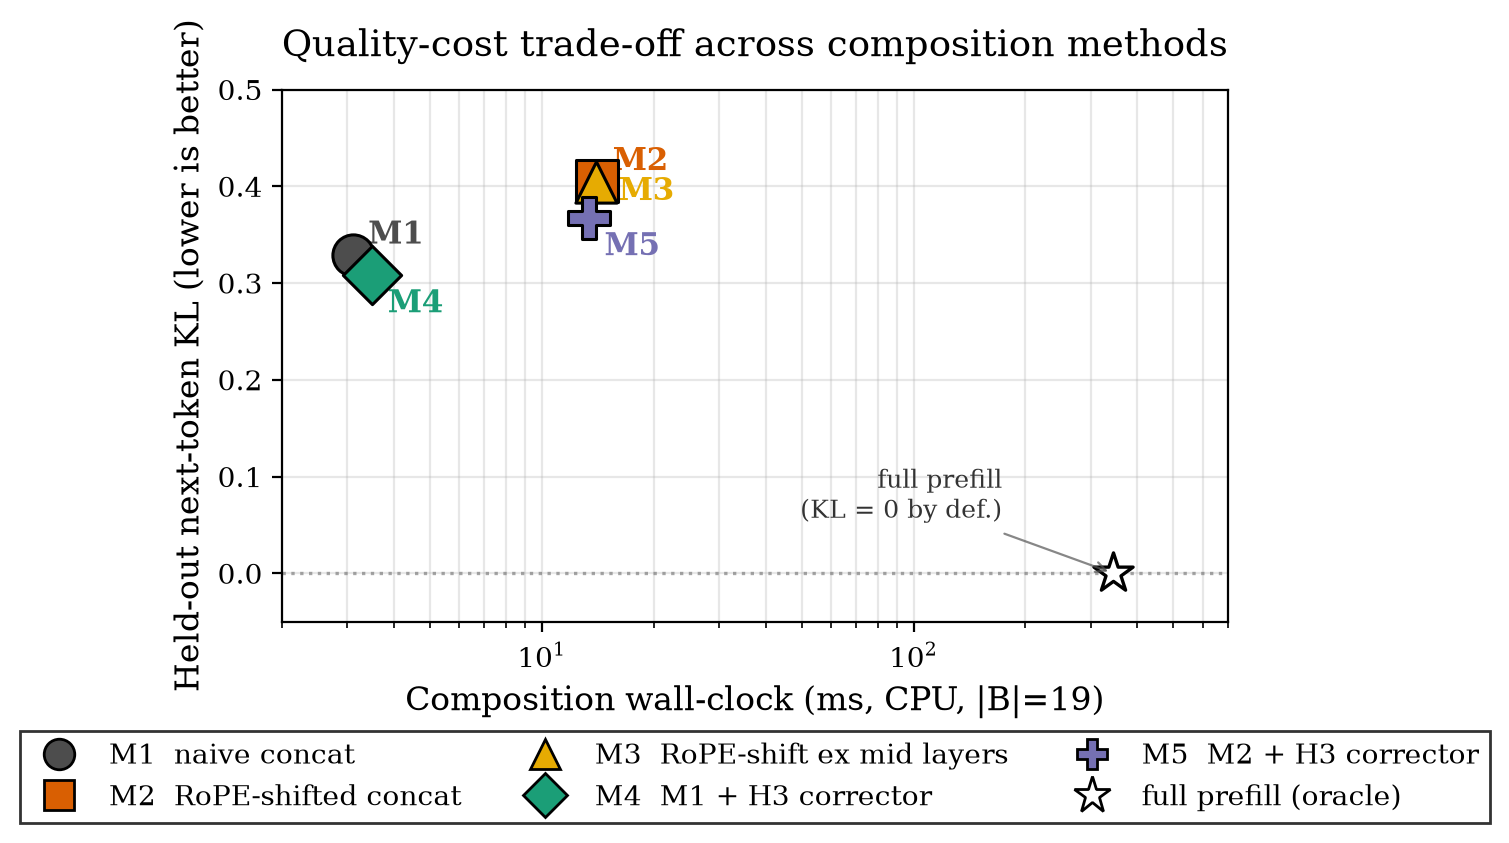
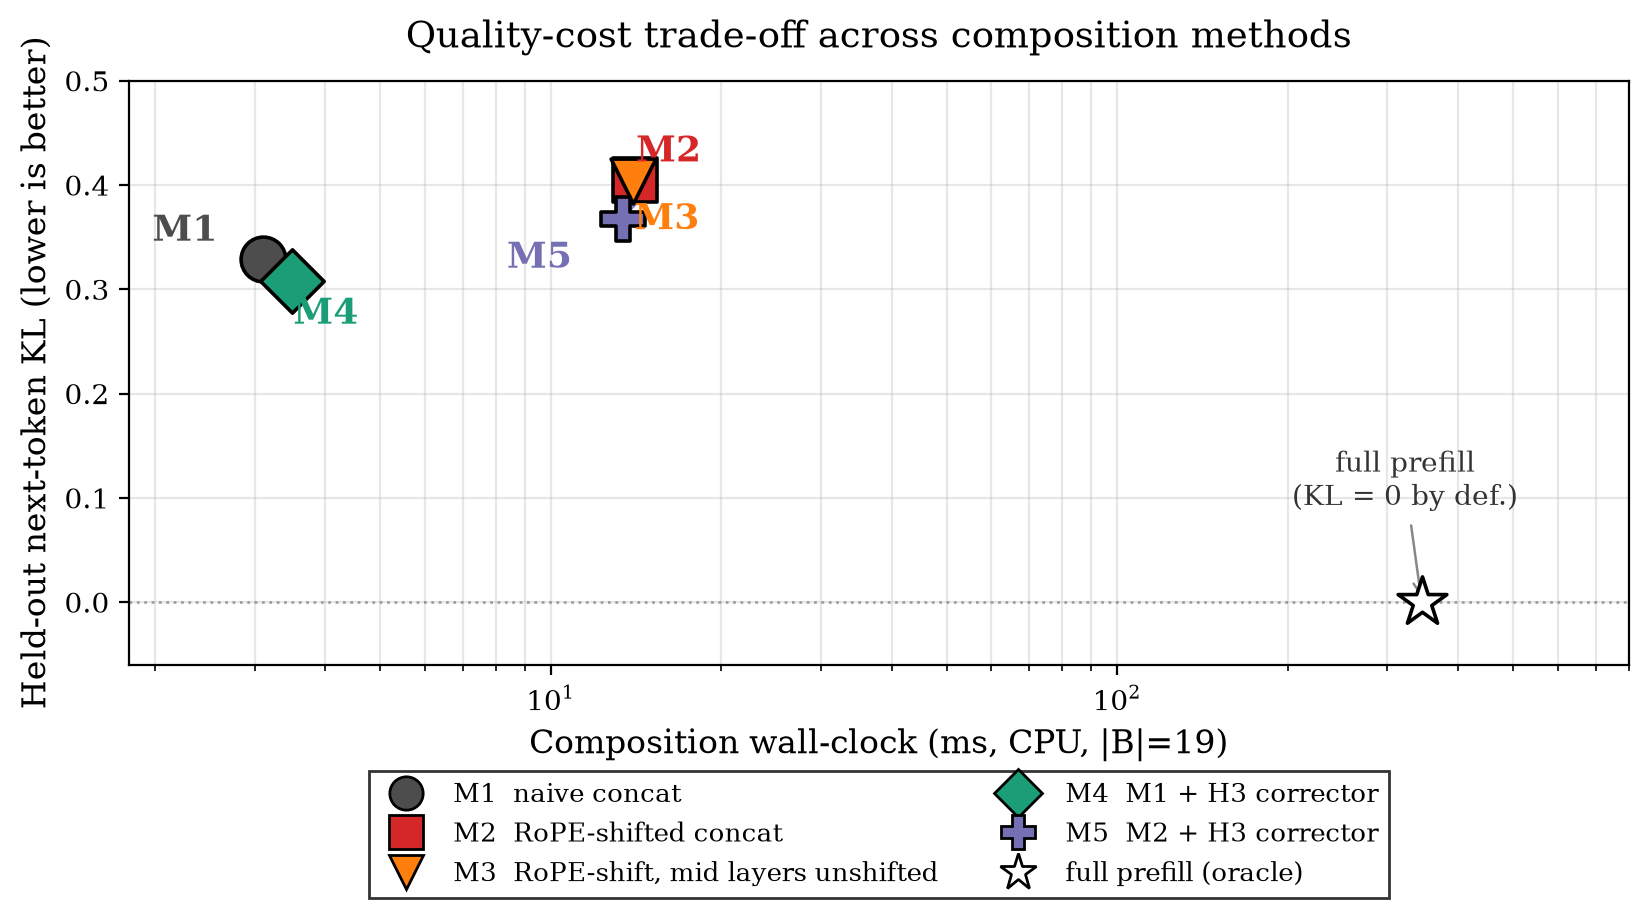
Pareto v3: distinct colors, no label overlap, 2-column legend
- All 5 methods now have visually distinct colors: gray (M1), red (M2),
  orange (M3), green (M4), purple (M5).
- M3 marker changed from up-triangle to down-triangle so it does not
  read as the same shape family as anything else.
- Removed the "+H3" text labels that were overlapping the M4/M5 bold
  labels. The green and purple arrows already communicate the
  improvement direction, and the legend and figure caption identify
  which methods include H3.
- Wider figure (8.5x5.0), 2-column legend fully inside the frame with
  no truncation.
- Full-prefill oracle drawn as a white star with an arrow-labelled
  "KL = 0 by def." annotation.

diff --git a/paper/make_pareto.py b/paper/make_pareto.py
@@ -2,83 +2,83 @@
 
 import matplotlib.pyplot as plt
 import matplotlib
+from matplotlib.lines import Line2D
 
 matplotlib.rcParams.update({
     "font.size": 11,
     "font.family": "serif",
     "axes.labelsize": 12,
-    "legend.fontsize": 10,
+    "legend.fontsize": 9.5,
     "xtick.labelsize": 10,
     "ytick.labelsize": 10,
 })
 
-# (method label, wall-clock ms, held-out aggregate KL, marker, color, label_offset)
-# label_offset: (dx_log_units, dy_kl_units) for the text label
+# (label, wall_ms, KL, marker, color, xytext_offset in points)
 methods = [
-    ("M1",   3.1,   0.329, "o", "#4d4d4d", (0.10, +0.020)),
-    ("M2",   14.1,  0.405, "s", "#d95f02", (0.10, +0.020)),
-    ("M3",   14.0,  0.404, "^", "#e6ab02", (0.15, -0.010)),
-    ("M4",   3.5,   0.308, "D", "#1b9e77", (0.10, -0.030)),
-    ("M5",   13.4,  0.367, "P", "#7570b3", (0.10, -0.030)),
+    ("M1",  3.1,   0.329, "o",  "#4d4d4d", (-28,  10)),   # gray
+    ("M4",  3.5,   0.308, "D",  "#1b9e77", ( 12, -12)),   # green
+    ("M2",  14.1,  0.405, "s",  "#d62728", ( 12,  10)),   # red
+    ("M3",  14.0,  0.404, "v",  "#ff7f0e", ( 12, -14)),   # orange, triangle-down
+    ("M5",  13.4,  0.367, "P",  "#7570b3", (-30, -14)),   # purple
 ]
-prefill_baseline = ("full prefill oracle", 344.9, 0.0)
+oracle_x, oracle_y = 344.9, 0.0
 
-fig, ax = plt.subplots(figsize=(7.0, 4.6))
+fig, ax = plt.subplots(figsize=(8.5, 5.0))
 
-# Reference: full prefill baseline as a horizontal reference line + a labeled point
-ax.axhline(0.0, color="grey", linestyle=":", linewidth=1.2, alpha=0.7)
-ax.scatter(prefill_baseline[1], prefill_baseline[2], s=220, marker="*",
-           color="white", edgecolor="black", linewidth=1.2, zorder=3,
-           label="full prefill (oracle)")
-ax.annotate("full prefill\n(KL = 0 by def.)", xy=(prefill_baseline[1], 0.0),
-            xytext=(-40, 20), textcoords="offset points",
-            fontsize=9, color="#333333", ha="right",
-            arrowprops=dict(arrowstyle="->", color="#555555", lw=0.8, alpha=0.7))
+# Oracle reference line
+ax.axhline(0.0, color="grey", linestyle=":", linewidth=1.0, alpha=0.7)
 
-# Draw improvement arrows first so they sit under the markers
+# Improvement arrows first (behind markers)
 ax.annotate("", xy=(3.5, 0.308), xytext=(3.1, 0.329),
-            arrowprops=dict(arrowstyle="->", color="#1b9e77", lw=2.0, alpha=0.85))
+            arrowprops=dict(arrowstyle="->", color="#1b9e77", lw=2.5, alpha=0.9,
+                            shrinkA=8, shrinkB=8))
 ax.annotate("", xy=(13.4, 0.367), xytext=(14.1, 0.405),
-            arrowprops=dict(arrowstyle="->", color="#7570b3", lw=2.0, alpha=0.85))
+            arrowprops=dict(arrowstyle="->", color="#7570b3", lw=2.5, alpha=0.9,
+                            shrinkA=8, shrinkB=8))
 
-# Methods
-for label, ms, kl, marker, color, (dxlog, dy) in methods:
-    ax.scatter(ms, kl, s=220, marker=marker, color=color, edgecolor="black",
-               linewidth=1.1, label=f"{label}", zorder=4)
-    # place text label at log-multiplied x
-    ax.annotate(label, xy=(ms, kl), xytext=(ms * (1 + dxlog), kl + dy),
-                fontsize=11, fontweight="bold", color=color,
-                ha="left", va="center")
+# Method markers
+for label, ms, kl, marker, color, (dx, dy) in methods:
+    ax.scatter(ms, kl, s=260, marker=marker, color=color, edgecolor="black",
+               linewidth=1.3, zorder=4)
+    ax.annotate(label, xy=(ms, kl), xytext=(dx, dy), textcoords="offset points",
+                fontsize=13, fontweight="bold", color=color,
+                ha="center", va="center", zorder=5)
 
-# Legend with method descriptions in expanded form
-legend_labels = [
-    "M1  naive concat",
-    "M2  RoPE-shifted concat",
-    "M3  RoPE-shift ex mid layers",
-    "M4  M1 + H3 corrector",
-    "M5  M2 + H3 corrector",
-    "full prefill (oracle)",
+# Oracle star
+ax.scatter(oracle_x, oracle_y, s=340, marker="*", color="white",
+           edgecolor="black", linewidth=1.3, zorder=4)
+ax.annotate("full prefill\n(KL = 0 by def.)", xy=(oracle_x, oracle_y),
+            xytext=(-6, 35), textcoords="offset points",
+            fontsize=10, color="#333333", ha="center",
+            arrowprops=dict(arrowstyle="->", color="#555555", lw=0.9, alpha=0.7))
+
+# Improvement direction is communicated by the arrows and by the legend + caption.
+
+# Legend — two columns, plenty of horizontal room
+legend_handles = [
+    Line2D([0], [0], marker="o", color="w", markerfacecolor="#4d4d4d",
+           markeredgecolor="black", markersize=12, label="M1  naive concat"),
+    Line2D([0], [0], marker="s", color="w", markerfacecolor="#d62728",
+           markeredgecolor="black", markersize=12, label="M2  RoPE-shifted concat"),
+    Line2D([0], [0], marker="v", color="w", markerfacecolor="#ff7f0e",
+           markeredgecolor="black", markersize=12, label="M3  RoPE-shift, mid layers unshifted"),
+    Line2D([0], [0], marker="D", color="w", markerfacecolor="#1b9e77",
+           markeredgecolor="black", markersize=12, label="M4  M1 + H3 corrector"),
+    Line2D([0], [0], marker="P", color="w", markerfacecolor="#7570b3",
+           markeredgecolor="black", markersize=12, label="M5  M2 + H3 corrector"),
+    Line2D([0], [0], marker="*", color="w", markerfacecolor="white",
+           markeredgecolor="black", markersize=14, label="full prefill (oracle)"),
 ]
-# Rebuild legend manually
-from matplotlib.lines import Line2D
-handles = [
-    Line2D([0], [0], marker="o", color="w", markerfacecolor="#4d4d4d", markeredgecolor="black", markersize=11),
-    Line2D([0], [0], marker="s", color="w", markerfacecolor="#d95f02", markeredgecolor="black", markersize=11),
-    Line2D([0], [0], marker="^", color="w", markerfacecolor="#e6ab02", markeredgecolor="black", markersize=11),
-    Line2D([0], [0], marker="D", color="w", markerfacecolor="#1b9e77", markeredgecolor="black", markersize=11),
-    Line2D([0], [0], marker="P", color="w", markerfacecolor="#7570b3", markeredgecolor="black", markersize=11),
-    Line2D([0], [0], marker="*", color="w", markerfacecolor="white", markeredgecolor="black", markersize=14),
-]
-ax.legend(handles, legend_labels, loc="upper center",
-          bbox_to_anchor=(0.5, -0.18), ncol=3,
+ax.legend(handles=legend_handles, loc="upper center",
+          bbox_to_anchor=(0.5, -0.16), ncol=2,
           frameon=True, fancybox=False, edgecolor="black")
 
 ax.set_xlabel("Composition wall-clock (ms, CPU, |B|=19)")
 ax.set_ylabel("Held-out next-token KL (lower is better)")
 ax.set_title("Quality-cost trade-off across composition methods", pad=12)
 ax.set_xscale("log")
-ax.set_xlim(2, 700)
-ax.set_ylim(-0.05, 0.50)
+ax.set_xlim(1.8, 800)
+ax.set_ylim(-0.06, 0.50)
 ax.grid(True, alpha=0.3, which="both")
 
 plt.tight_layout(pad=1.5)
